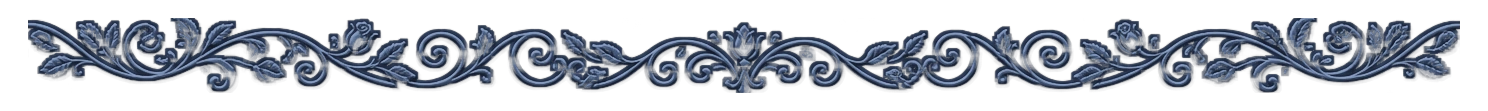
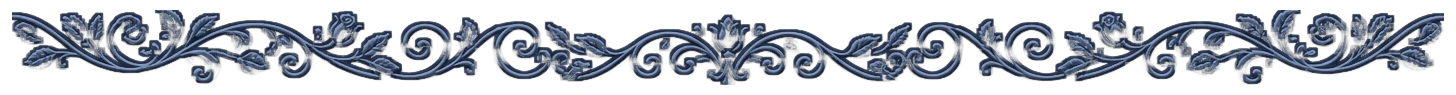
fix: stretch delicate vines along full fold length

diff --git a/app/globals.css b/app/globals.css
@@ -260,7 +260,7 @@
   .envelope-design {
     position: absolute;
     background-position: center;
-    background-size: contain;
+    background-size: 100% 100%;
     background-repeat: no-repeat;
     pointer-events: none;
   }
